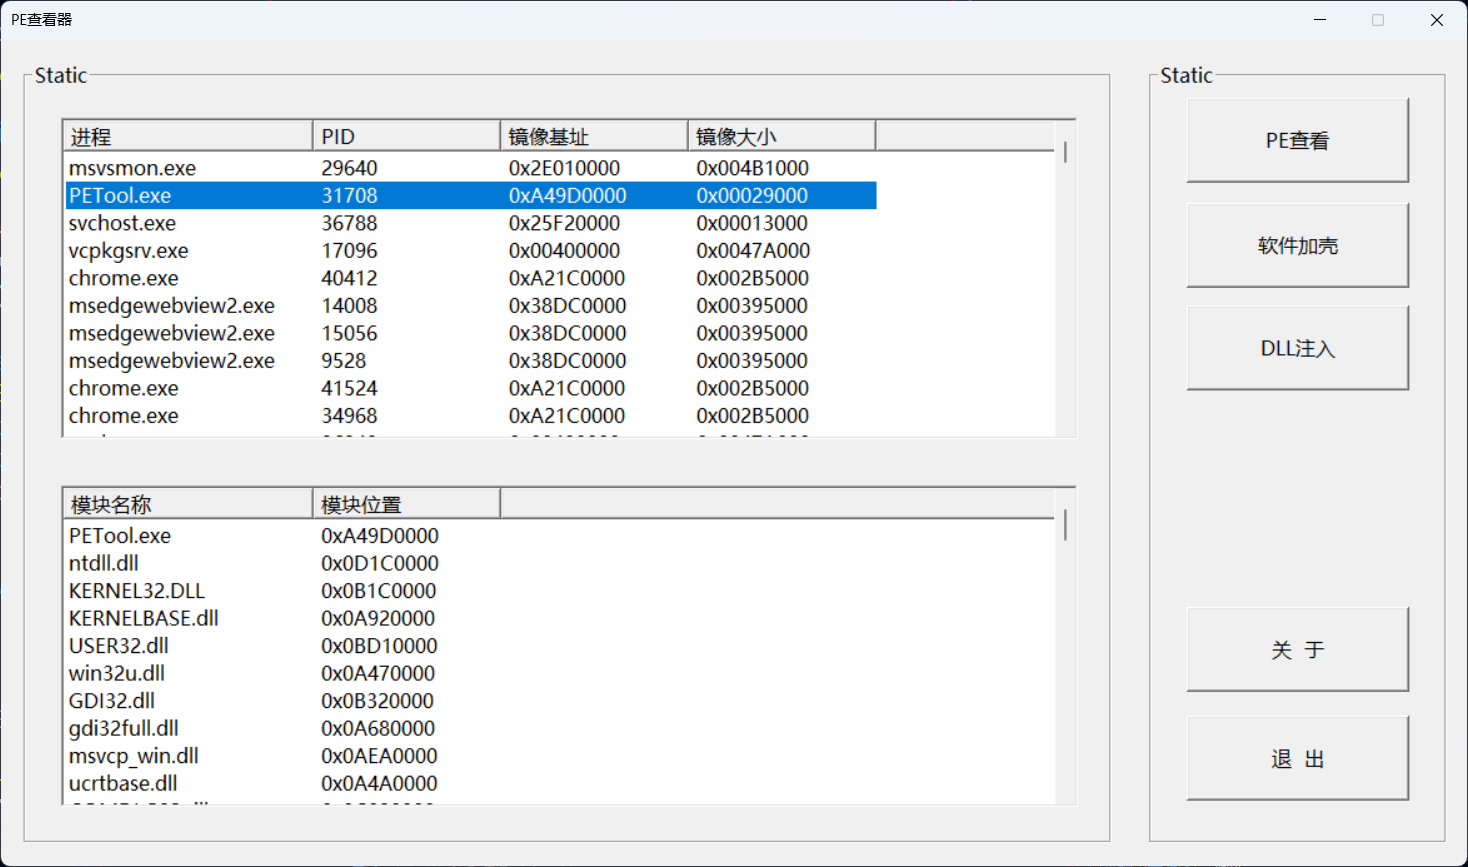
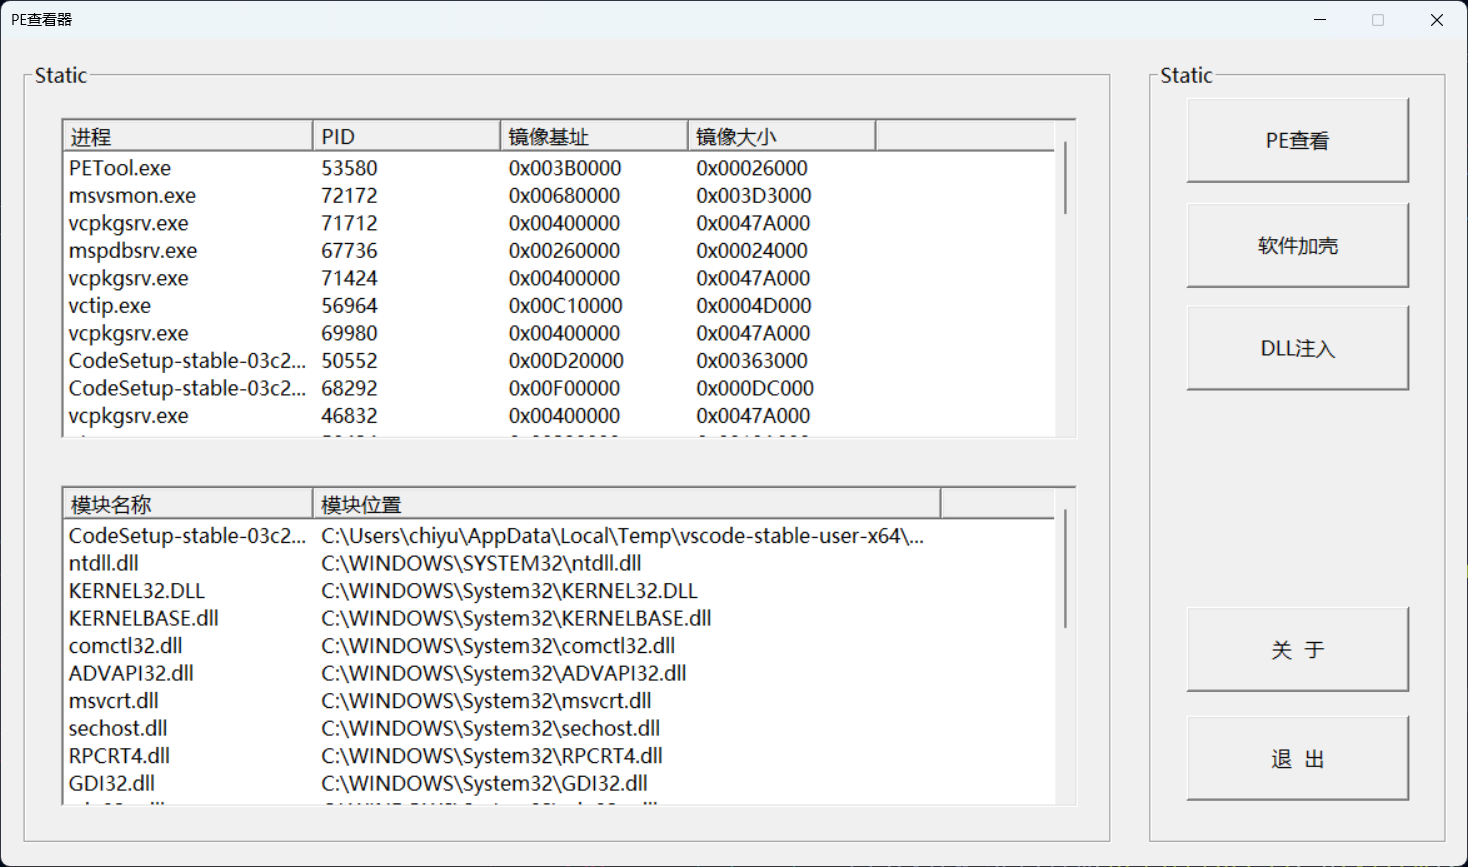
deploy: Cyzrjz/hugo-main@27ea5ef5b9960be1c93caaf5a404db6d9429c835

diff --git a/index.html b/index.html
@@ -130,8 +130,8 @@
     content="/"
   />
   <meta property="article:author" content="Cyzrjz" />
-  <meta property="article:published_time" content="2025-09-28T21:16:51&#43;08:00" />
-  <meta property="article:modified_time" content="2025-09-28T21:16:51&#43;08:00" />
+  <meta property="article:published_time" content="2025-10-12T20:34:40&#43;08:00" />
+  <meta property="article:modified_time" content="2025-10-12T20:34:40&#43;08:00" />
   
   
   <meta name="twitter:card" content="summary" />
@@ -862,7 +862,7 @@
         
         
           <img
-            data-src="/images/my/16.jpg"
+            data-src="/images/my/14.png"
             data-sizes="auto"
             alt="PE工具"
             class="lazyload"
@@ -926,7 +926,7 @@
         
         
           <img
-            data-src="/images/my/1.jpg"
+            data-src="/images/my/4.jpg"
             data-sizes="auto"
             alt="LitCTF2025"
             class="lazyload"
@@ -990,7 +990,7 @@
         
         
           <img
-            data-src="/images/my/8.jpg"
+            data-src="/images/my/16.jpg"
             data-sizes="auto"
             alt="逆向学习资源整理"
             class="lazyload"
@@ -1054,7 +1054,7 @@
         
         
           <img
-            data-src="/images/my/6.jpg"
+            data-src="/images/my/17.png"
             data-sizes="auto"
             alt="DLL注入实现反截屏"
             class="lazyload"
@@ -1118,7 +1118,7 @@
         
         
           <img
-            data-src="/images/my/1.jpg"
+            data-src="/images/my/15.png"
             data-sizes="auto"
             alt="Angr符号执行"
             class="lazyload"
@@ -1182,7 +1182,7 @@
         
         
           <img
-            data-src="/images/my/20.jpg"
+            data-src="/images/my/12.png"
             data-sizes="auto"
             alt="SSE指令集学习"
             class="lazyload"
@@ -1246,7 +1246,7 @@
         
         
           <img
-            data-src="/images/my/15.png"
+            data-src="/images/my/18.png"
             data-sizes="auto"
             alt="攻防世界 Reverse"
             class="lazyload"
@@ -1310,7 +1310,7 @@
         
         
           <img
-            data-src="/images/my/16.jpg"
+            data-src="/images/my/4.jpg"
             data-sizes="auto"
             alt="BUU-Reverse"
             class="lazyload"
@@ -1374,7 +1374,7 @@
         
         
           <img
-            data-src="/images/my/17.png"
+            data-src="/images/my/12.png"
             data-sizes="auto"
             alt="C&#43;&#43;进程遍历"
             class="lazyload"

diff --git a/post/pe工具/index.html b/post/pe工具/index.html
@@ -767,10 +767,10 @@
 </span></span><span class="line"><span class="cl">		<span class="n">lvItem</span><span class="p">.</span><span class="n">iSubItem</span> <span class="o">=</span> <span class="mi">0</span><span class="p">;</span>
 </span></span><span class="line"><span class="cl">		<span class="n">ListView_InsertItem</span><span class="p">(</span><span class="n">hListProcess</span><span class="p">,</span> <span class="o">&amp;</span><span class="n">lvItem</span><span class="p">);</span>
 </span></span><span class="line"><span class="cl">
-</span></span><span class="line"><span class="cl">		<span class="c1">// 模块基址
+</span></span><span class="line"><span class="cl">		<span class="c1">// 模块地址
 </span></span></span><span class="line"><span class="cl"><span class="c1"></span>		<span class="kt">char</span> <span class="n">buf</span><span class="p">[</span><span class="mi">256</span><span class="p">];</span>
 </span></span><span class="line"><span class="cl">		<span class="n">memset</span><span class="p">(</span><span class="n">buf</span><span class="p">,</span> <span class="mi">0</span><span class="p">,</span> <span class="mi">256</span><span class="p">);</span>
-</span></span><span class="line"><span class="cl">		<span class="n">sprintf</span><span class="p">(</span><span class="n">buf</span><span class="p">,</span> <span class="s">&#34;0x%08X&#34;</span><span class="p">,</span> <span class="n">me32</span><span class="p">.</span><span class="n">modBaseAddr</span><span class="p">);</span>
+</span></span><span class="line"><span class="cl">		<span class="n">sprintf</span><span class="p">(</span><span class="n">buf</span><span class="p">,</span> <span class="s">&#34;%s&#34;</span><span class="p">,</span> <span class="n">me32</span><span class="p">.</span><span class="n">szExePath</span><span class="p">);</span>
 </span></span><span class="line"><span class="cl">		<span class="n">lvItem</span><span class="p">.</span><span class="n">pszText</span> <span class="o">=</span> <span class="n">buf</span><span class="p">;</span>
 </span></span><span class="line"><span class="cl">		<span class="n">lvItem</span><span class="p">.</span><span class="n">iItem</span> <span class="o">=</span> <span class="n">n</span><span class="p">;</span>
 </span></span><span class="line"><span class="cl">		<span class="n">lvItem</span><span class="p">.</span><span class="n">iSubItem</span> <span class="o">=</span> <span class="mi">1</span><span class="p">;</span>

diff --git a/post/litctf2025/index.html b/post/litctf2025/index.html
@@ -902,7 +902,7 @@ Robbie_Wanna_Revenge(复现)
           
           
             <img
-              data-src="/images/my/1.jpg"
+              data-src="/images/my/9.jpg"
               data-sizes="auto"
               alt="逆向学习资源整理"
               class="lazyload"
@@ -925,7 +925,7 @@ Robbie_Wanna_Revenge(复现)
           
           
             <img
-              data-src="/images/my/19.jpg"
+              data-src="/images/my/7.jpg"
               data-sizes="auto"
               alt="PE工具"
               class="lazyload"

diff --git a/post/angr符号执行/index.html b/post/angr符号执行/index.html
@@ -797,7 +797,7 @@ angr.Project
           
           
             <img
-              data-src="/images/my/8.jpg"
+              data-src="/images/my/4.jpg"
               data-sizes="auto"
               alt="SSE指令集学习"
               class="lazyload"
@@ -820,7 +820,7 @@ angr.Project
           
           
             <img
-              data-src="/images/my/9.jpg"
+              data-src="/images/my/13.png"
               data-sizes="auto"
               alt="DLL注入实现反截屏"
               class="lazyload"

diff --git a/post/buuctf-reverse/index.html b/post/buuctf-reverse/index.html
@@ -923,7 +923,7 @@ exp
           
           
             <img
-              data-src="/images/my/14.png"
+              data-src="/images/my/18.png"
               data-sizes="auto"
               alt="C&#43;&#43;进程遍历"
               class="lazyload"
@@ -946,7 +946,7 @@ exp
           
           
             <img
-              data-src="/images/my/3.jpg"
+              data-src="/images/my/19.jpg"
               data-sizes="auto"
               alt="攻防世界 Reverse"
               class="lazyload"

diff --git a/post/sse指令集学习/index.html b/post/sse指令集学习/index.html
@@ -1100,7 +1100,7 @@ SSE
           
           
             <img
-              data-src="/images/my/5.jpg"
+              data-src="/images/my/3.jpg"
               data-sizes="auto"
               alt="攻防世界 Reverse"
               class="lazyload"
@@ -1123,7 +1123,7 @@ SSE
           
           
             <img
-              data-src="/images/my/13.png"
+              data-src="/images/my/11.png"
               data-sizes="auto"
               alt="Angr符号执行"
               class="lazyload"

diff --git a/post/dll注入实现反截屏/index.html b/post/dll注入实现反截屏/index.html
@@ -1051,7 +1051,7 @@
           
           
             <img
-              data-src="/images/my/5.jpg"
+              data-src="/images/my/16.jpg"
               data-sizes="auto"
               alt="Angr符号执行"
               class="lazyload"
@@ -1074,7 +1074,7 @@
           
           
             <img
-              data-src="/images/my/2.jpg"
+              data-src="/images/my/16.jpg"
               data-sizes="auto"
               alt="逆向学习资源整理"
               class="lazyload"

diff --git a/post/攻防世界-reverse/index.html b/post/攻防世界-reverse/index.html
@@ -2703,7 +2703,7 @@ exp
           
           
             <img
-              data-src="/images/my/16.jpg"
+              data-src="/images/my/17.png"
               data-sizes="auto"
               alt="BUU-Reverse"
               class="lazyload"
@@ -2726,7 +2726,7 @@ exp
           
           
             <img
-              data-src="/images/my/15.png"
+              data-src="/images/my/10.jpg"
               data-sizes="auto"
               alt="SSE指令集学习"
               class="lazyload"

diff --git a/post/逆向学习资源整理/index.html b/post/逆向学习资源整理/index.html
@@ -616,7 +616,7 @@
           
           
             <img
-              data-src="/images/my/19.jpg"
+              data-src="/images/my/20.jpg"
               data-sizes="auto"
               alt="DLL注入实现反截屏"
               class="lazyload"
@@ -639,7 +639,7 @@
           
           
             <img
-              data-src="/images/my/9.jpg"
+              data-src="/images/my/19.jpg"
               data-sizes="auto"
               alt="LitCTF2025"
               class="lazyload"

diff --git a/post/c++进程遍历/index.html b/post/c++进程遍历/index.html
@@ -860,7 +860,7 @@ THREADENTRY32结构包含以下成员,可以使用<code>.成员名</code> 访问
           
           
             <img
-              data-src="/images/my/9.jpg"
+              data-src="/images/my/2.jpg"
               data-sizes="auto"
               alt="BUU-Reverse"
               class="lazyload"
